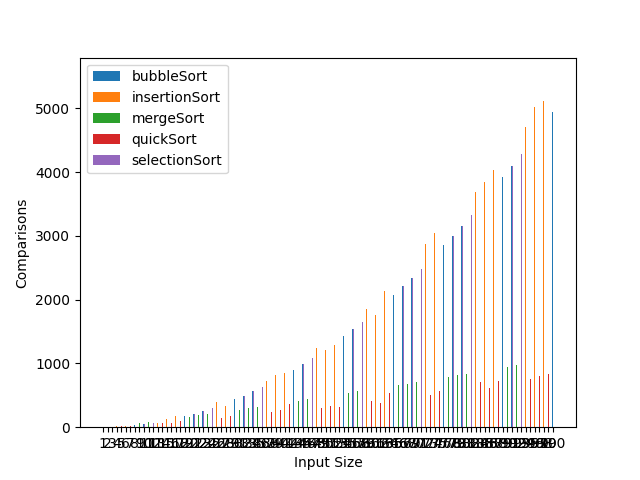
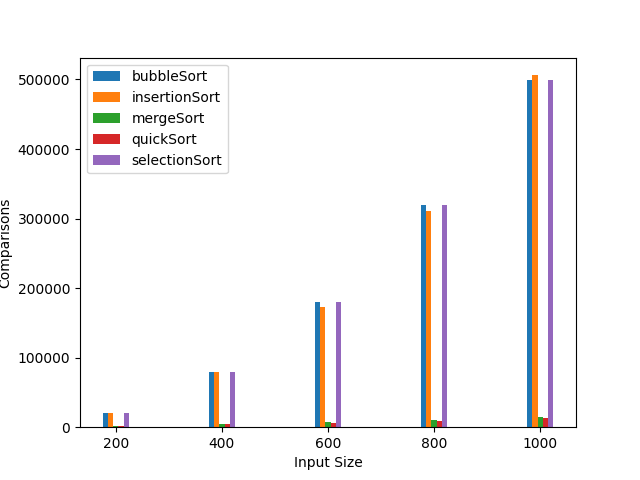
Final changes

diff --git a/sortAnalyser.py b/sortAnalyser.py
@@ -9,7 +9,7 @@ LANGS = {
 
 ALGORITHMS = ["bubbleSort", "insertionSort", "mergeSort", "quickSort", "selectionSort"]
 
-INPUT_SIZES = [i for i in range(1, 101, 50)]
+INPUT_SIZES = [i for i in range(200, 1001, 200)]
 
 QUANTITIES = [ "Comparisons", "Swaps", "Iterations", "Time", "Space"]
 
@@ -63,7 +63,7 @@ def runAnalysis():
             for lang in LANGS:
                 print(f"    Running in {lang}", end="", flush=True)
                 execute(algo, lang)
-                print("✅")
+                print(" ✅")
 
         recordData(inputSize)
 
